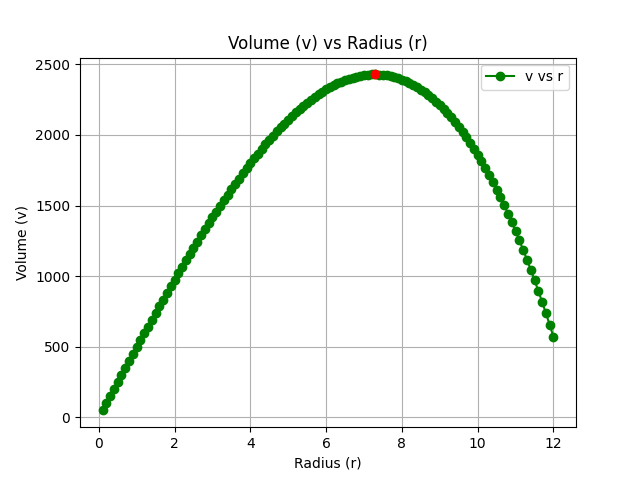
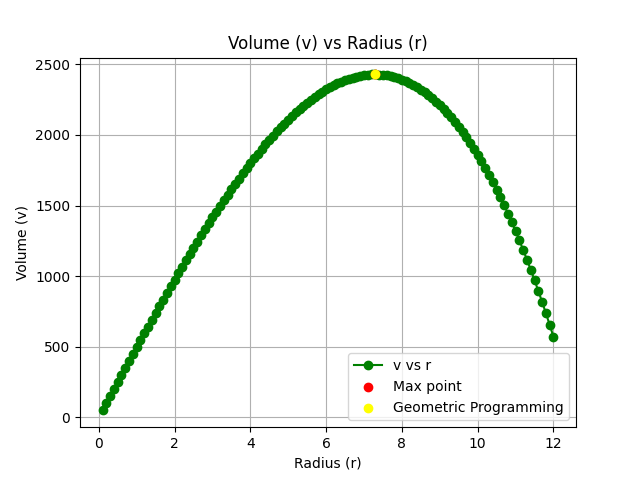
added assignment

Changed region(s): [[0.5625, 0.75, 0.9062, 0.875], [0.75, 0.125, 0.875, 0.1875], [0.5625, 0.125, 0.5938, 0.1875]]

diff --git a/sci programming/question-6.5.20/codes/code.py b/sci programming/question-6.5.20/codes/code.py
@@ -55,7 +55,8 @@ def plot_v_vs_r(S, lr, tol, itr):
     
     # Plot the results
     plt.plot(r_values, v_values, marker='o', linestyle='-', color='g', label="v vs r")
-    plt.scatter(r_opt, v_opt, color='red', zorder=5)
+    plt.scatter(r_opt, v_opt, color='red', zorder=5, label="Max point")
+    plt.scatter(r_gp, v_gp, color='yellow', zorder=5, label="Geometric Programming")
     plt.xlabel("Radius (r)")
     plt.ylabel("Volume (v)")
     plt.title("Volume (v) vs Radius (r)")
@@ -91,6 +92,7 @@ problem.solve(gp=True, solver = cp.MOSEK)
 # Extract optimal values
 r_gp = r.value
 h_gp = h.value
+v_gp = calculate_volume(S, r_gp)
 
 # Print the optimal radius for maximum volume
 print(f"Optimal radius for maximum volume: {result.r_opt:.8f}")
